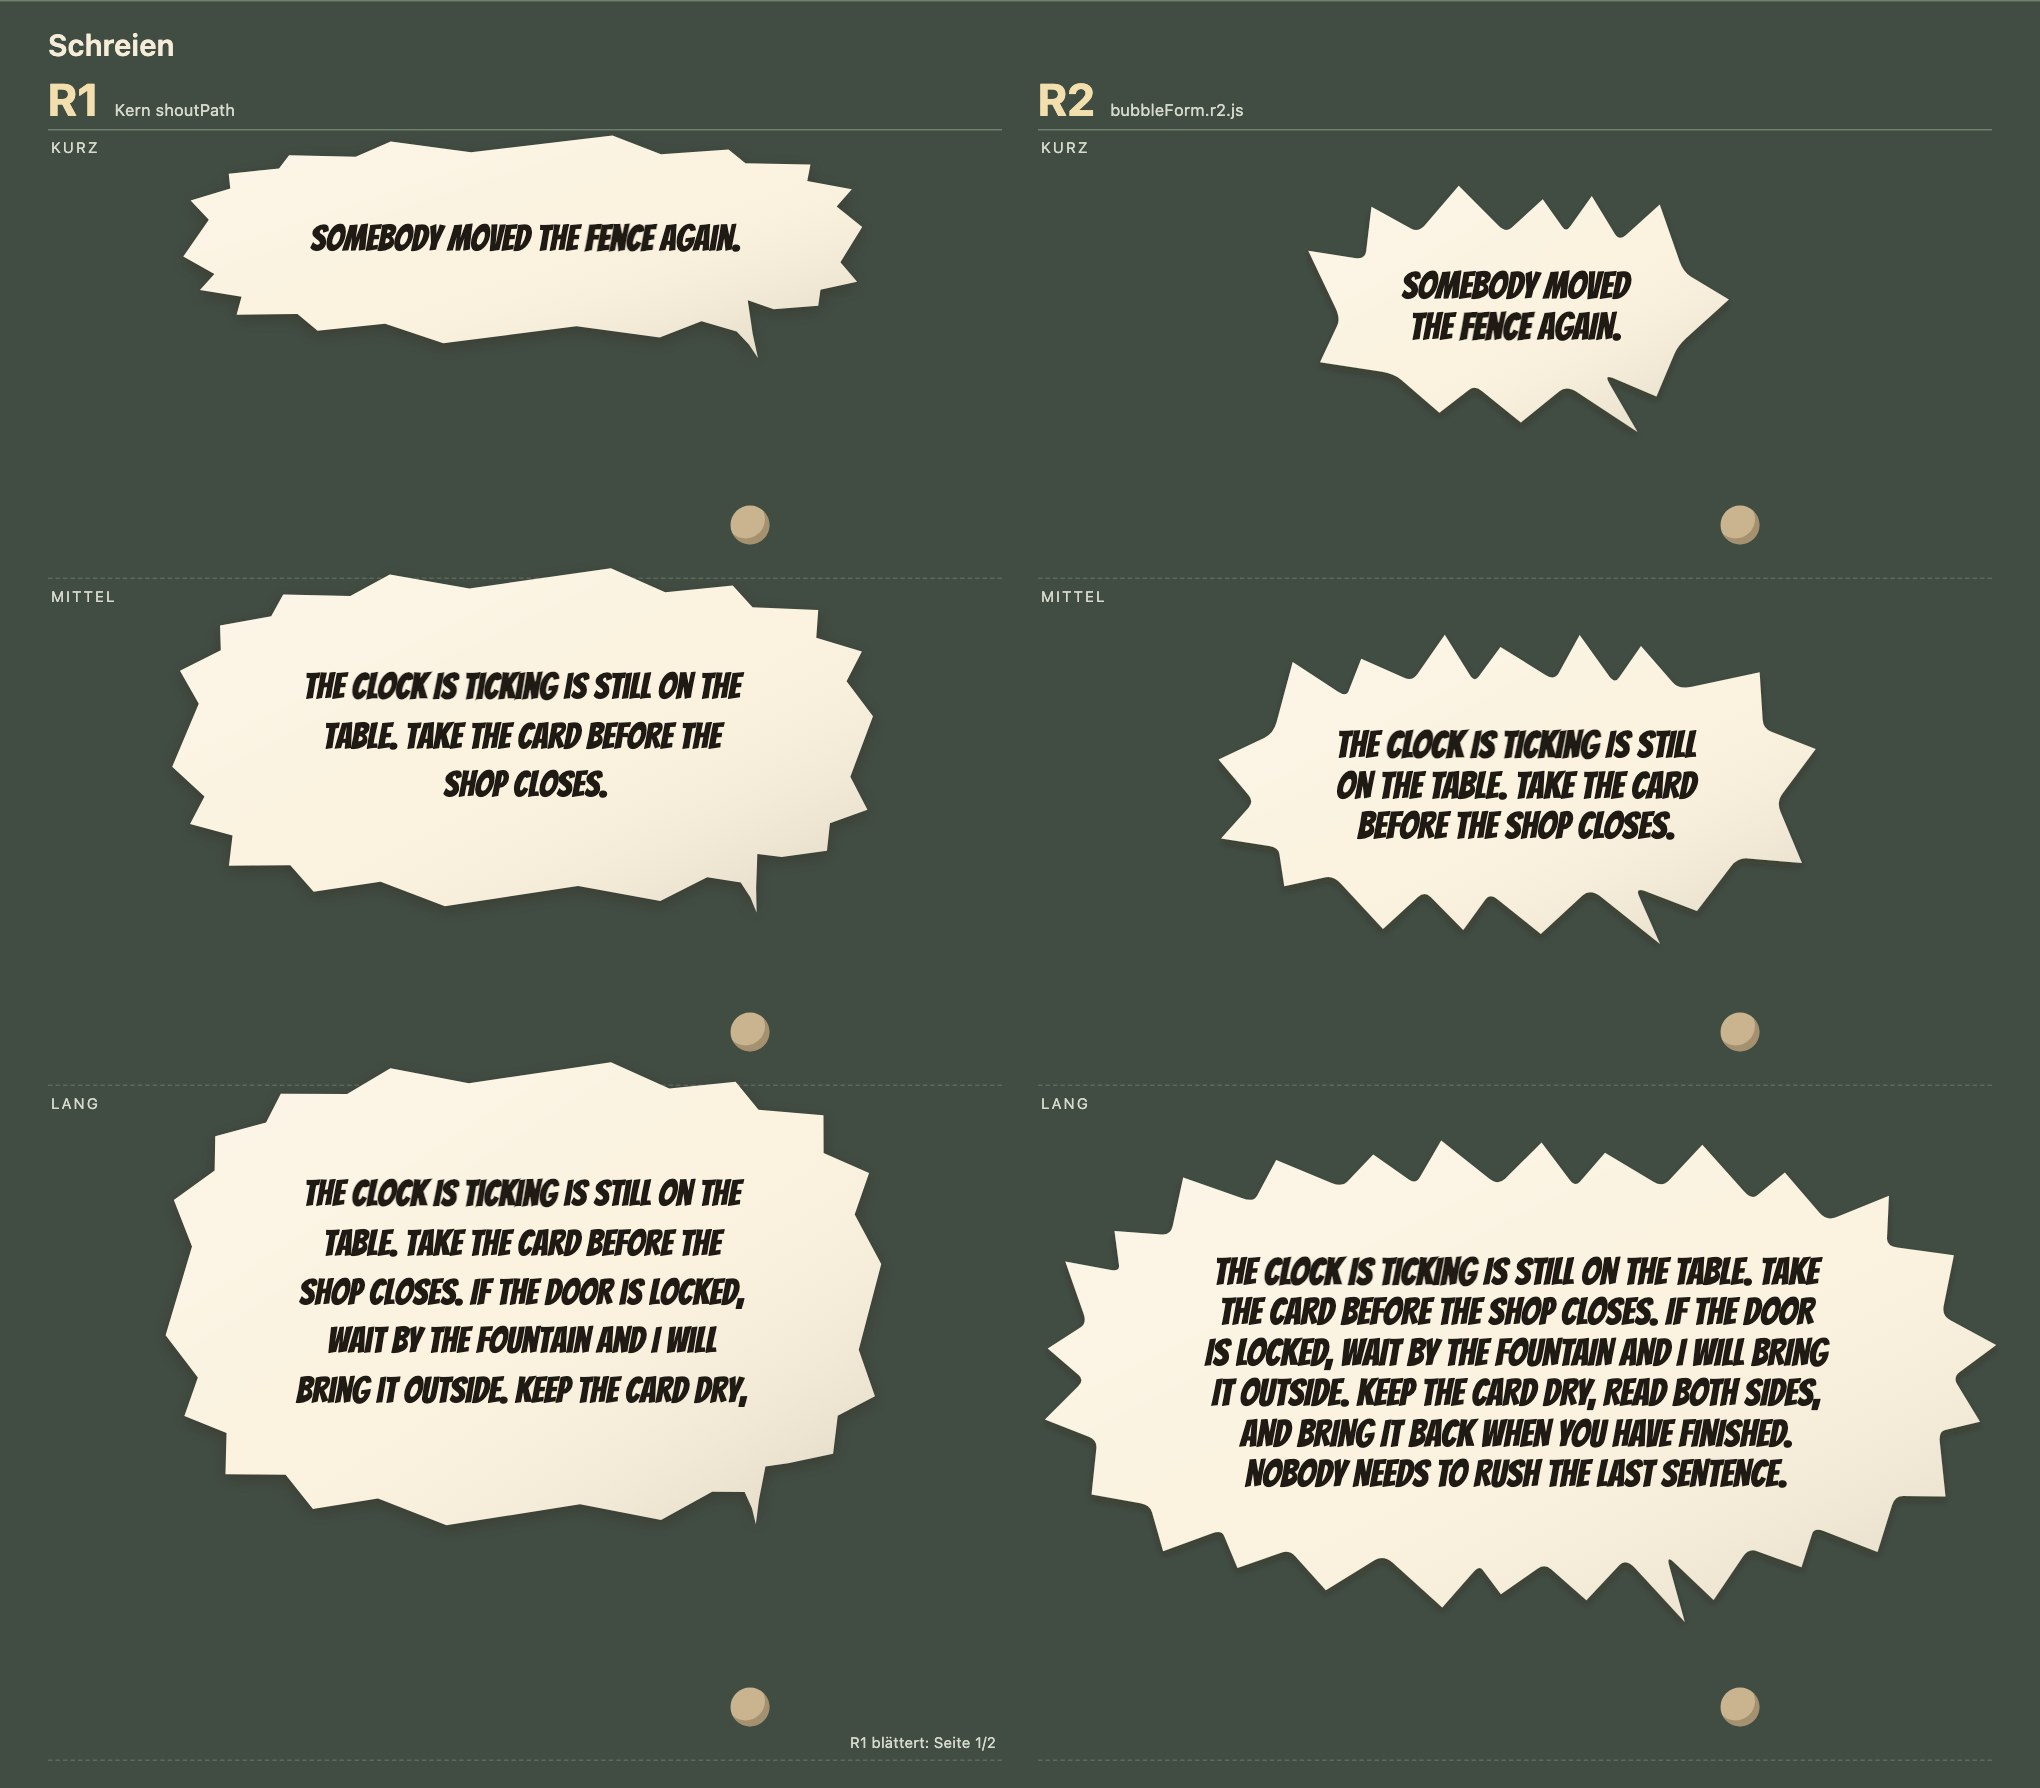
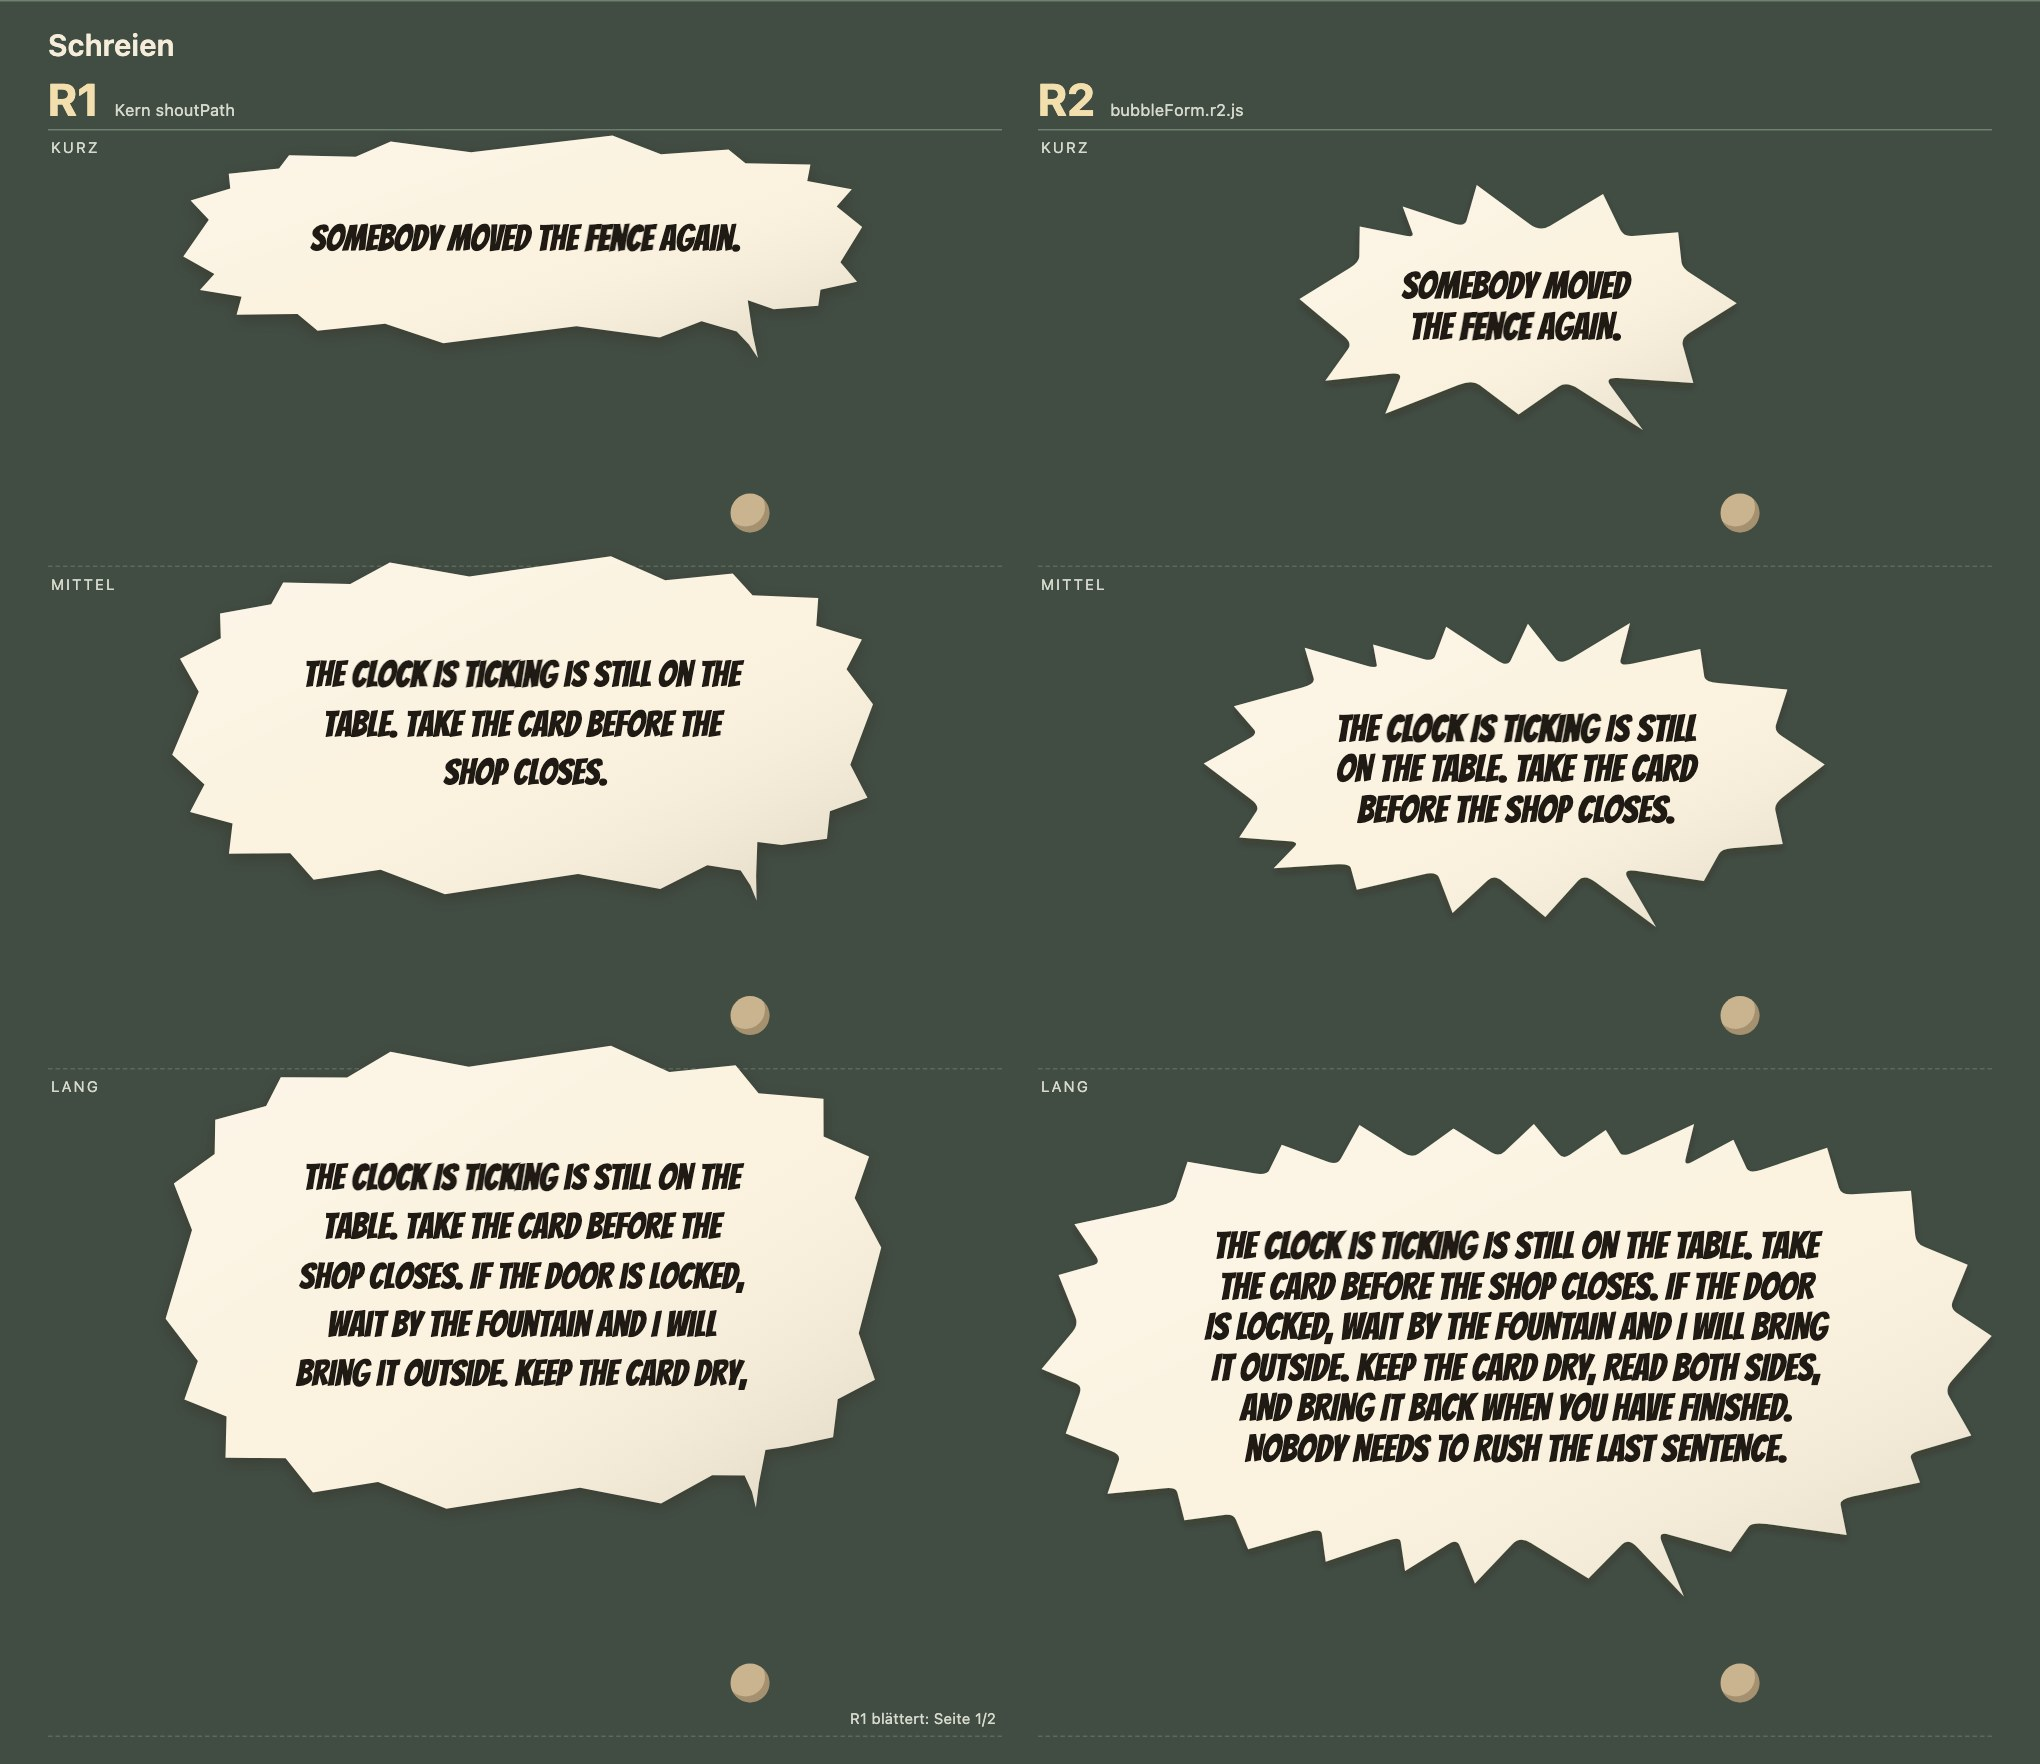
docs(steering): register mirror

diff --git a/tools/KFB-ToolBox/_inbox/KFB_HUB/30_DECISIONS/DECISIONS.md b/tools/KFB-ToolBox/_inbox/KFB_HUB/30_DECISIONS/DECISIONS.md
@@ -1785,7 +1785,7 @@ Stand 2026-11-10 · erzeugt aus `build_decisions.py` · Teil A handgepflegt (nur
 | V-1815 | 15.11.2026 |  | Prozess/Platte | **DONE** | Platten-Inventur 15.11. (17 GB frei): Dropbox lokal 183 GB, ~/.codex 58, Claude-App 43, ~/kfb-ws0 39, ~/.claude 11, Caches 11, GitHub-Spiegel 7,7. Ursache des Nachlaufens: Lesen von Nur-online-Dateien lädt sie neu (breite Agenten-Suchen) → Regel: keine breiten Dropbox-Suchen. Georg-Ja: sieben alte Arbeitsbäume entfernt (cardedge, design, doors, arena, flight, look, dioramen; Zweige auf GitHub bzw. im Stamm, ws0/look-calibration-r2 vorher gepusht), Sicherung replies/WS0_ARBEITSBAEUME_SICHERUNG_20261115/ (Patches, Listen, kleine Archive; Prüfbild-Archive design/doors im Papierkorb) → 20 GB frei. | WS0 |
 | V-1816 | 15.11.2026 |  | Figuren/Animation | **BUILD** | Idle-Tanz R2 hinter tanz2=r1 (prüfen): src/life/tanz2.js liest assets/private 50_BLENDER/KULTURTECHNIKEN_R1 (Manifest teilB2, clips_fb/clips_kaykit tanz*.glb); nur geschlossene Schleifen ohne Partner/Übergänge, FB/KayKit nach rigs, Stufe aus Energie (untere Hälfte simple), Eigentempo takt.bpm; alte Clips bleiben (N-109). danceHost: cfg + extra/loadExtra. NPC nur Medium. src/private auf assets/private @2fde66e6 nachgezogen (713 identische ungetrackte Dateien und lokale Atlas-Änderungen = Zielstand, Dubletten im Papierkorb). test/_tanz2.mjs: k2 Iglesias läuft, 0 Fehler. Offen: Beleg von vorn im Spiel-Look, Hub; floorlift je Bild noch nicht angewandt; downbeatS-Ausrichtung. Parallel: Blasen-Sitzung R2 (Remotion) und Mund-Sitzung (17 neue Bögen, cut_align) gestartet. | WS0 |
 | V-1817 | 15.11.2026 |  | Figuren/Mund | **REVIEW/Hub** | Georg 15.11.: neue Cartoon-Münder (17 Bögen, Dropbox CLAUDE/2D Animation Studio/KFB CartoonMouths, Ergebnis von V-1765) für Spiel und ToolBox aufbereiten. WS0-Sitzung: 15 Bögen mit cut_align_r4 geschnitten (S09 Ruheform mit Zähnen, S15 Schachbrett eingebrannt → nicht übernommen); Typen round_clay, buck_grin (volle statt schmale Lippen), full_soft, sausage, crooked_rogue, monster_maw, neu yellow_buck, grey_thin, olive_thin, sausage_coral (7 Läufe, S16 gewählt; fv/disgust kaputt). Werkzeugfehler behoben: CLOSED_FAMILY ohne sad/smirk (offen in allen R4-Bögen), alle Typen neu geschnitten. Hub q705 (8 Typen) → Georg 15.11.: alle acht übernommen; Einbau R2-Format + mundSaetze hinter muender4=r1 + ToolBox-Patch-Vorschlag durch die WS0-Mund-Sitzung (Zweig ws0/muender-r4). Für das Spiel fehlen R2-Format (Anker 220, upperLift 0,35, Schatten, closed_width_px) und ORDNER-/FORM-Einträge in mundSaetze.js; ToolBox-Patchfelder in replies/MOUTHS_GPT_R4/RETURN.md. grey_thin/olive_thin/sausage_coral mit flacher Ruheform (Seitenverhältnis > 1,7) offen. | WS0 |
-| V-1818 | 15.11.2026 |  | Dialog/Comic-UI | **REVIEW/Hub** | Sprechblasen R2 (WS0-Sitzung, Georgs Remotion-Vorschlag): Formmodul src/hud/bubbles/bubbleForm.r2.js auf ws0/blasen-r2 @fb985cd4 (reines JS für Spiel, Website, Remotion; 11 Prüfungen PASS), Testseite R1/R2, 7 JPG + 7 MP4 in replies/SPRECHBLASEN_R2/, Remotion-Kompositionen 60_VIDEO/remotion/src/blasen-r2/, Modulkopie 60_VIDEO/components/kfb-bubbles-r2/. Offen laut Sitzung: lange Schrei-Oberkante noch gleichmäßig, KA-BOOM-Flanke, Schweifkreise/Flüster-Zipfel klein; Abweichungen zur Entscheidung: aktive Antwort halb Gold, Schrei-Zipfel über Zacken, Kayfabulate-Reiter in Bangers, Soundword dunkle Kontur. Hub q706 (Schrei, Gedanke, Soundword, Antworten), q707 (Sprechen, Flüstern, Erzähler). Georg 15.11.: Tänze auch für Website-Leerlauf (FB tanzt, wenn er nicht erklärt) und Erklär-Gesten für Regel-Guide/Onboarding → WSB r1h + Nachtrag 8. | WS0 |
+| V-1818 | 15.11.2026 |  | Dialog/Comic-UI | **REVIEW/Hub** | Sprechblasen R2 (WS0-Sitzung, Georgs Remotion-Vorschlag): Formmodul src/hud/bubbles/bubbleForm.r2.js auf ws0/blasen-r2 @fb985cd4 (reines JS für Spiel, Website, Remotion; 11 Prüfungen PASS), Testseite R1/R2, 7 JPG + 7 MP4 in replies/SPRECHBLASEN_R2/, Remotion-Kompositionen 60_VIDEO/remotion/src/blasen-r2/, Modulkopie 60_VIDEO/components/kfb-bubbles-r2/. Offen laut Sitzung: lange Schrei-Oberkante noch gleichmäßig, KA-BOOM-Flanke, Schweifkreise/Flüster-Zipfel klein; Abweichungen zur Entscheidung: aktive Antwort halb Gold, Schrei-Zipfel über Zacken, Kayfabulate-Reiter in Bangers, Soundword dunkle Kontur. Hub q706 (Schrei, Gedanke, Soundword, Antworten), q707 (Sprechen, Flüstern, Erzähler) → Georg 15.11.: PASS; TUNE-Lauf: Schrei-Zacken sternförmig vom Zentrum, Gedanken-Schweifkreise als klarer Bogen vom Kopf zur Blase wie der Zipfel. Georg 15.11.: Tänze auch für Website-Leerlauf (FB tanzt, wenn er nicht erklärt) und Erklär-Gesten für Regel-Guide/Onboarding → WSB r1h + Nachtrag 8. | WS0 |
 
 ## B · Abnahmen aus Projektdateien (81)
 

diff --git a/tools/KFB-ToolBox/_inbox/KFB_HUB/30_DECISIONS/replies/WEB_KANON_R2/BRIEF_WSB_WEB_KANON_R1H_TANZ_ERKLAEREN.md b/tools/KFB-ToolBox/_inbox/KFB_HUB/30_DECISIONS/replies/WEB_KANON_R2/BRIEF_WSB_WEB_KANON_R1H_TANZ_ERKLAEREN.md
@@ -1,0 +1,27 @@
+# Für WSB (Mac mini, Blender MCP) · Web-Kanon r1h: Tänze für Leerlauf und Erklär-Gesten für den Regel-Guide · 15.11. (Georg, V-1818)
+
+**Kern (3 Zeilen):**
+1. Georg: Auf der Website tanzt FB in Pausen, wenn er gerade nichts erklärt, und für Spielregeln, FAQ und Onboarding braucht er Gesten zum Erklären.
+2. Beides gibt es im Bestand. Es kommt unverändert in die Web-Datei, wie die Katana-Clips in r1g.
+3. Lieferung `FB_WEB_KANON_agent_twin.r1h.glb` = r1g plus die Clips unten, sonst nichts geändert, mit Messblatt.
+
+**Grundlage:** `assets/private` @2fde66e6. Pfade ohne Präfix liegen dort.
+
+| Teil | Bestand (geprüfter Pfad) |
+|---|---|
+| Web-Datei heute | `50_BLENDER/FB_WEB_KANON_R1/_privat_kauf_asset/FB_WEB_KANON_agent_twin.r1g.glb`, Messblatt `50_BLENDER/FB_WEB_KANON_R1/RETURN_r1g.md` |
+| Tänze FB (Georgs Wahl q686, q695, q696) | `50_BLENDER/KULTURTECHNIKEN_R1/clips_fb/KFB_Kultur_tanz.Rig_Medium.fb.glb`, `…/KFB_Kultur_tanz2.Rig_Medium.fb.glb`; Felder im Manifest `50_BLENDER/KULTURTECHNIKEN_R1/data/teilB2/clips.kulturtechniken_r1.json` |
+| Erklär-Gesten | Gesprächsbibliothek `50_BLENDER/N35/out/talk_library_r2/KFB_Talk_Library_Rig_Medium.glb` (Katalog `KFB_Talk_Library.catalog.Rig_Medium.json`); Debatten d1–d8 `50_BLENDER/KULTURTECHNIKEN_R1/clips_fb/KFB_Kultur_debatten.Rig_Medium.fb.glb` |
+
+**Auswahl:**
+- Tänze: alle Clips mit `technik: tanz`, `rigs` ∋ `fb`, `schleife.geschlossen` und ohne Partner (dieselbe Regel wie im Spiel, V-1816). Die Posen-Übergänge k7b/k7s/k8b/k8s kommen als Ein- und Ausstieg mit.
+- Erklären: die 13 Clips der Gesprächsbibliothek und d1–d8. Sitz-Clips (d3, d4, d5) nur, wenn sie ohne Stuhl lesbar bleiben; sonst als Lücke melden.
+
+**Regeln:**
+- Clips unverändert (V-574); auf FB sind sie schon nach V-1752 repariert, nichts neu übertragen.
+- Arme frei wie im Spiel (V-1733), FB-Kanon-Wache (beide Ohren, Schwanz).
+- Gleiche Packung wie r1g; Größe im Messblatt nennen.
+
+**Messblatt `RETURN_r1h.md`:** je Clip Name, Länge, Schleife ja/nein, Takt (bpm, beatsPerLoop, downbeatS) aus dem Manifest, und bei Erklär-Clips die Rolle (zeigen, zählen, abwägen, Zustimmen, Widersprechen …) aus dem Katalog.
+
+**Rückgabe:** Git-Bundle mit Zweig `assets/wsb-fb-web-kanon-r1h` von `assets/private` @2fde66e6, RETURN in `KFB_HUB/30_DECISIONS/replies/WEB_KANON_R2/MINI_r1h/`. WS0 pusht und gibt r1h an Claude Design weiter.
